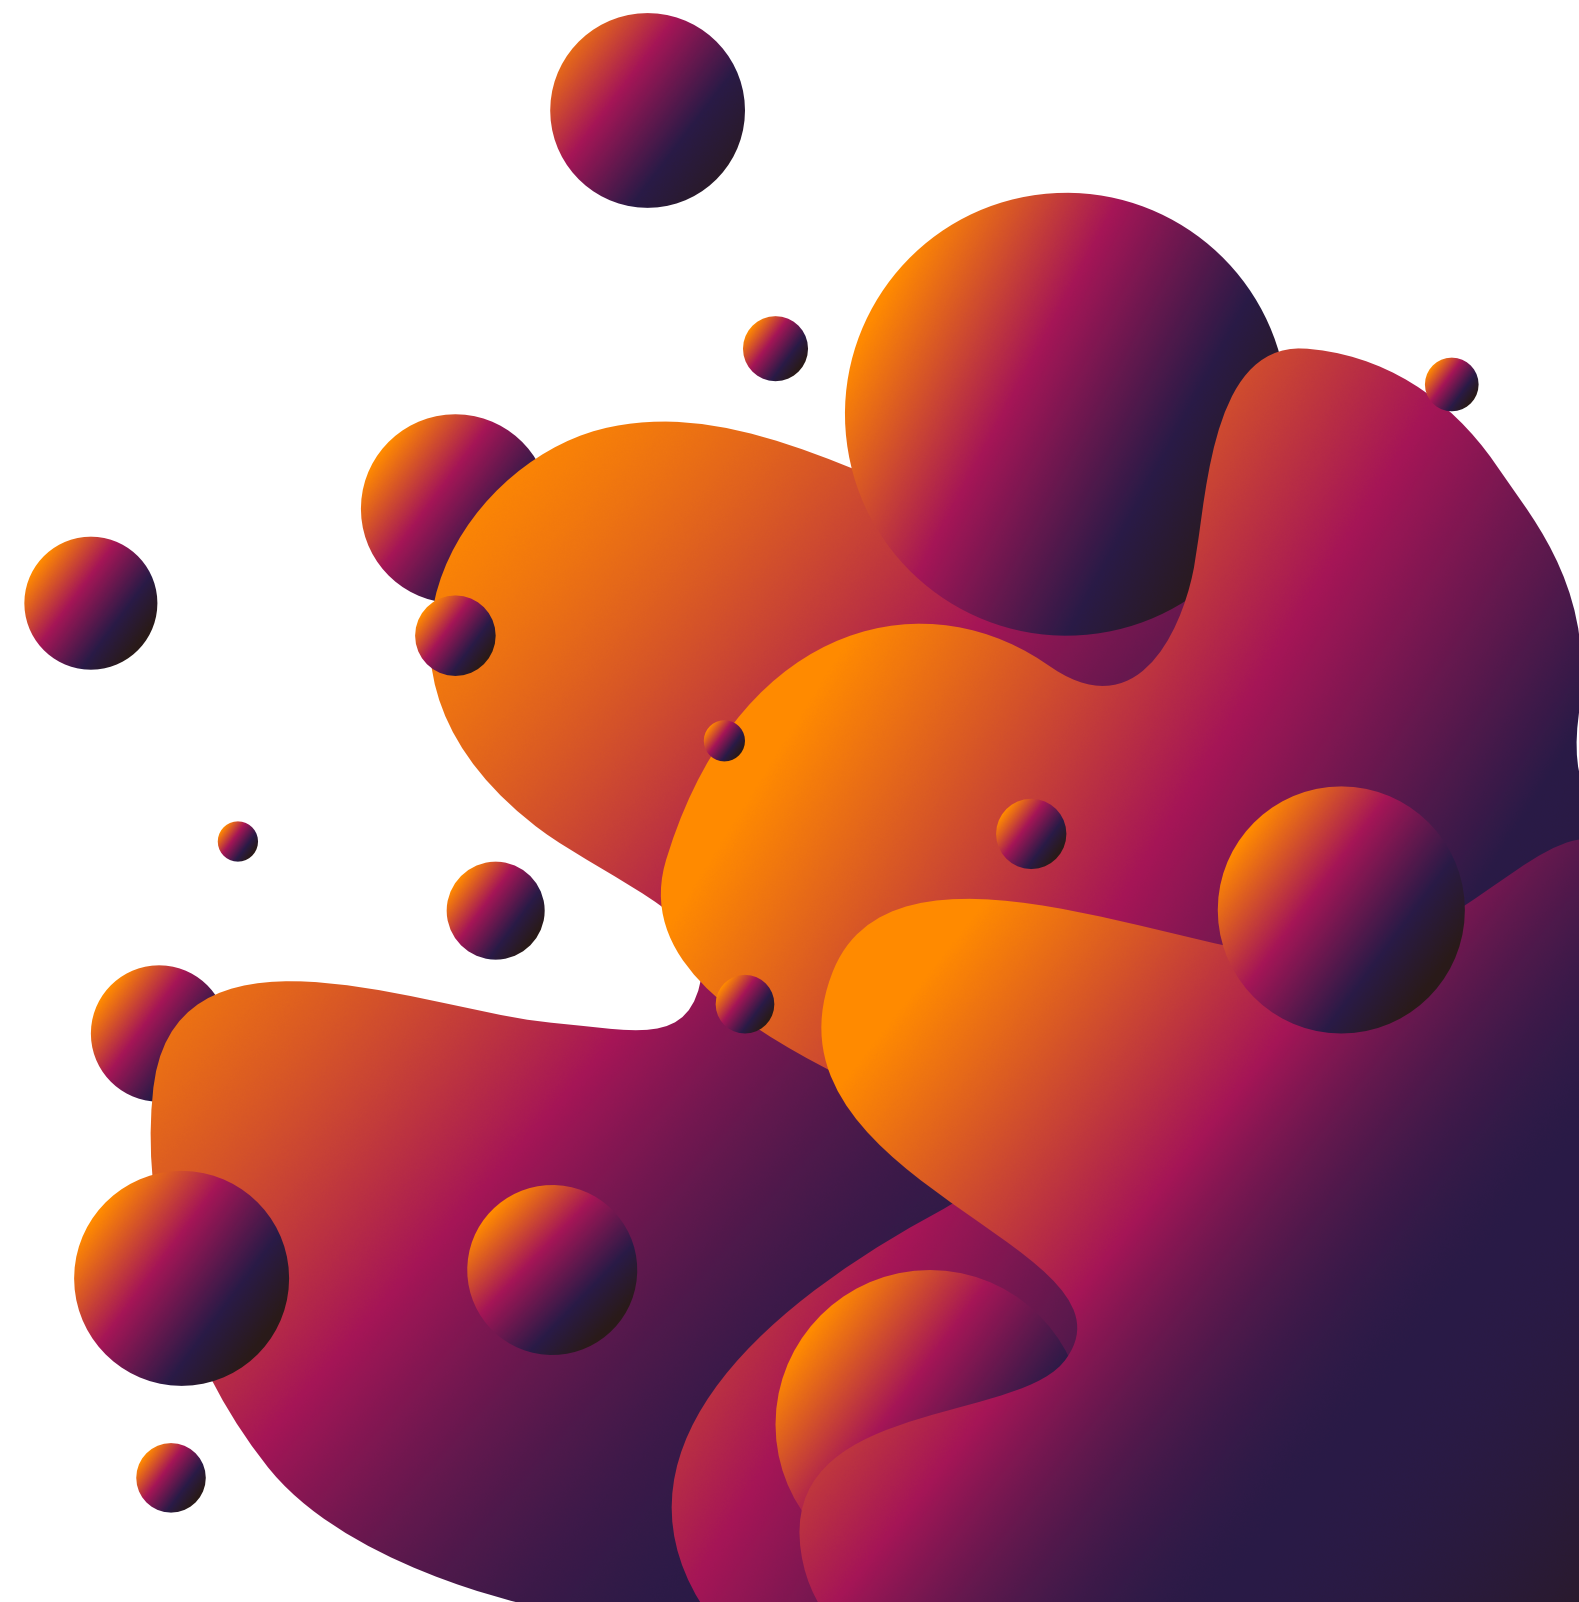
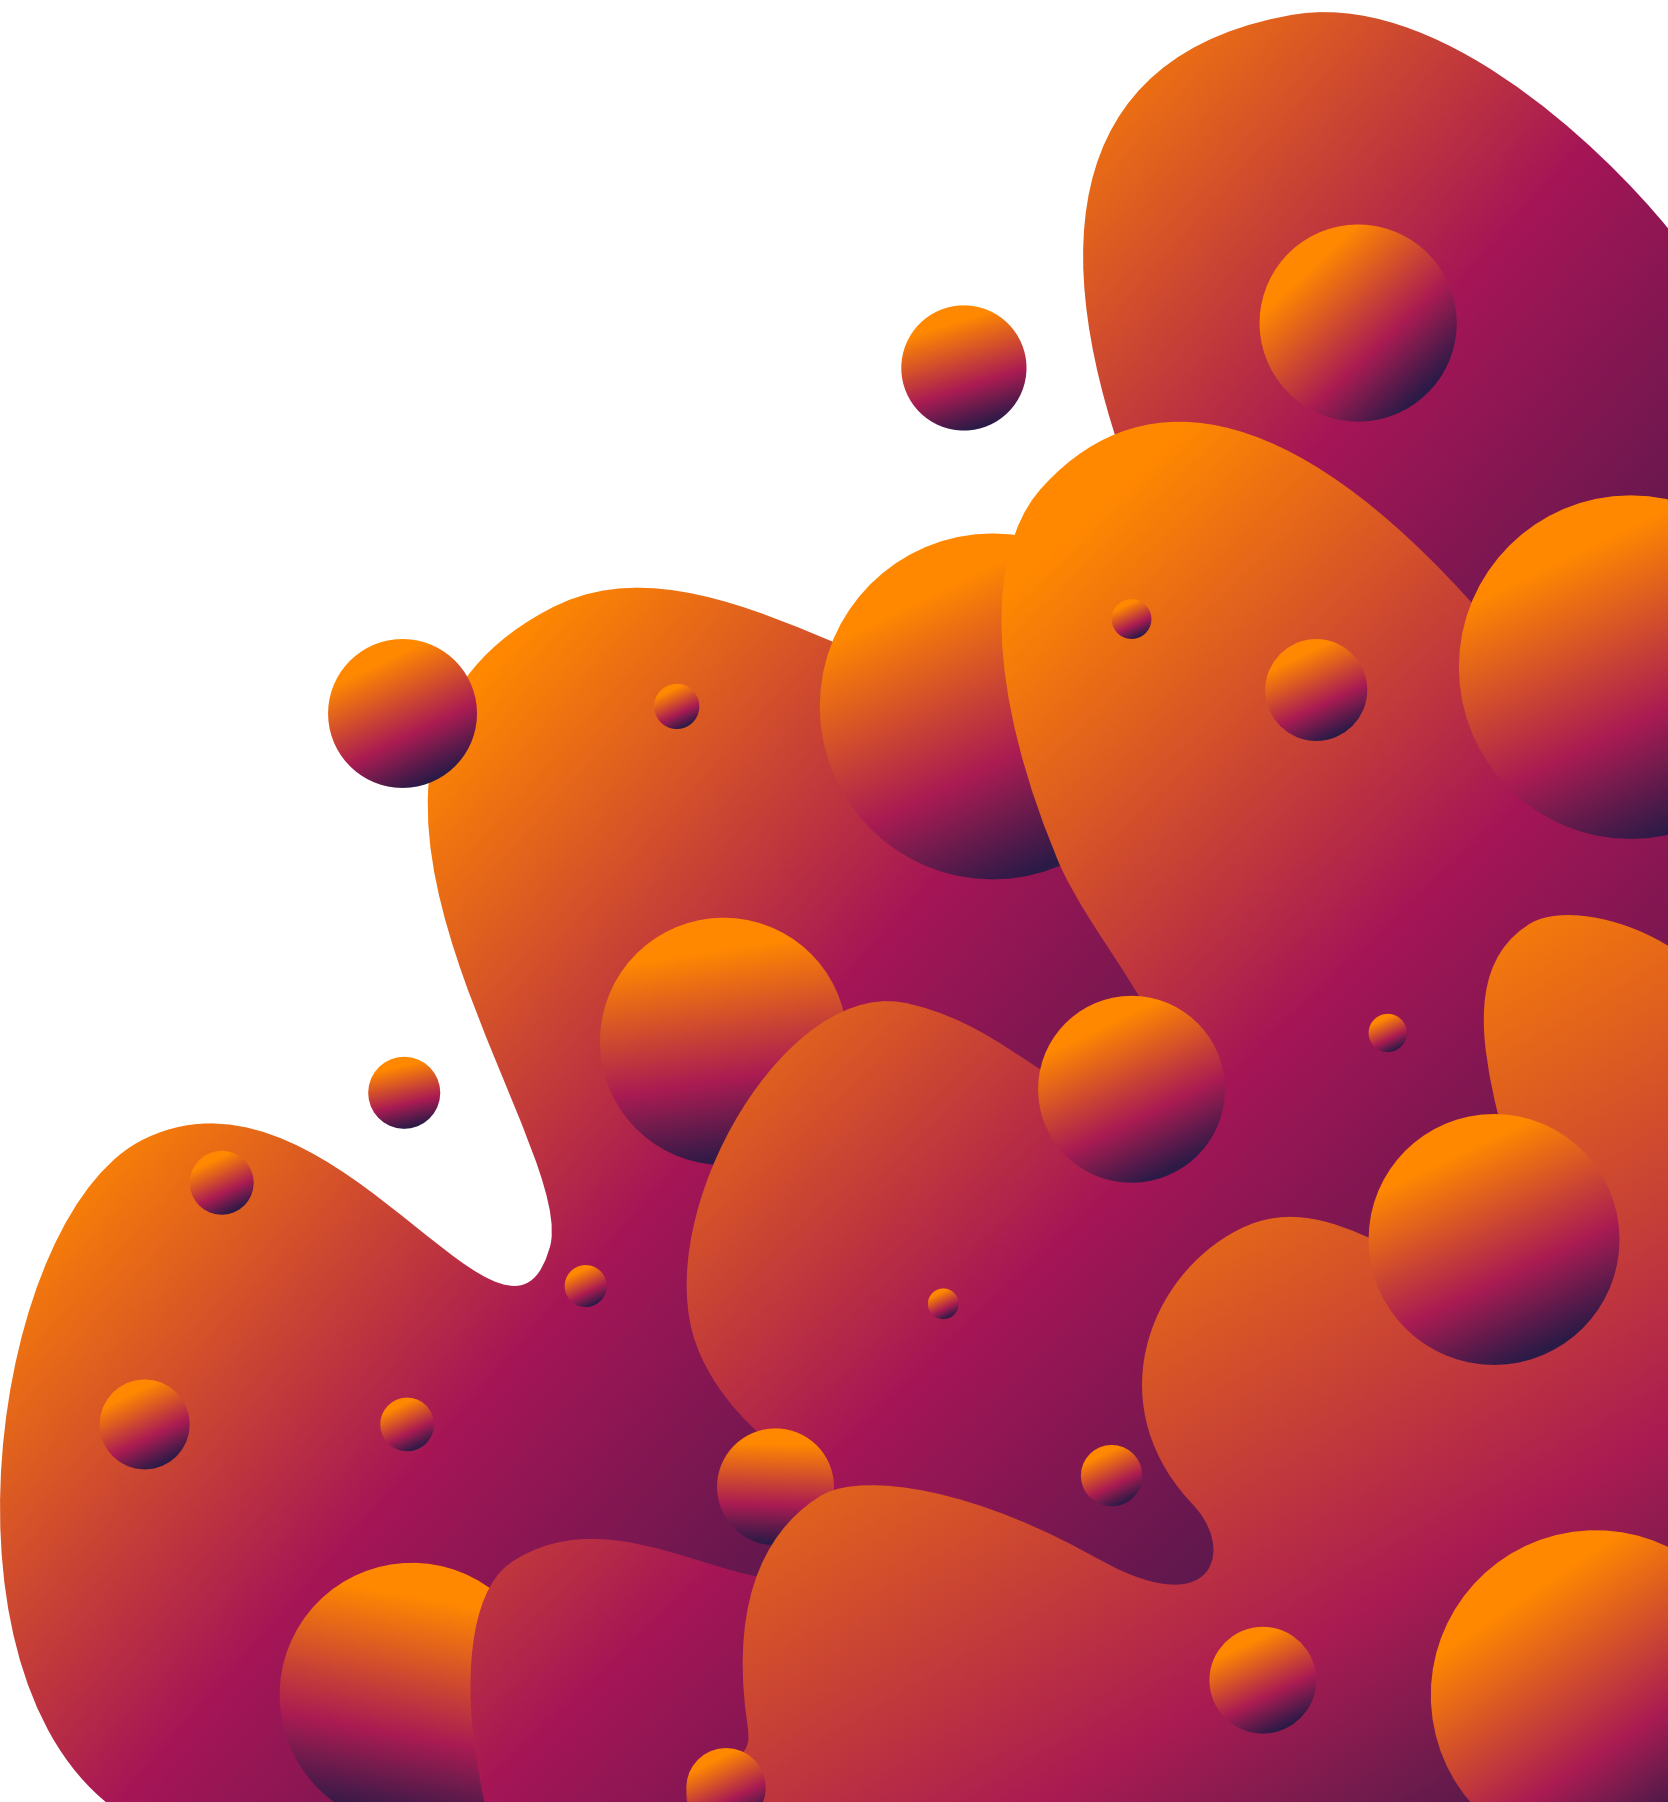
updated lava image and adjusted for smaller screens

diff --git a/styles/style.scss b/styles/style.scss
@@ -49,10 +49,10 @@ p {
 
 .lava {
     position: absolute;
-    left: 158%;
-    margin-left: 120px;
+    left: 157%;
+    margin-left: 173px;
     top: 0;
-    margin-top: -83px;
+    margin-top: -237px;
     height: 80%;
     width: 60%;
 }
@@ -329,6 +329,21 @@ nav {
         top: 25%;
         left: 15%;
     }
+
+    .lava {
+        position: absolute;
+        left: 199%;
+        margin-top: -181px;
+        margin-left: -334px;
+        top: 0;
+    }
+
+    .lava {
+        img {
+            max-height: 750px;
+            max-width: 970px;
+        }
+    }
     .about-section {
         position: absolute;
         top: 15%;
@@ -340,6 +355,13 @@ nav {
         top: 25%;
         left: 15%;
     }
+
+    .my-skills {
+        li {
+            padding: 0 20px 40px 0;
+        }
+    }
+
     .project-section {
         position: absolute;
         top: 25%;
@@ -440,6 +462,11 @@ nav {
         left: 20%;
         width: 80%;
     }
+    .lava {
+            display: none;
+
+    }    
+
     .about-section {
         position: absolute;
         left: 10%;

diff --git a/styles/style.css b/styles/style.css
@@ -48,10 +48,10 @@ p {
 
 .lava {
   position: absolute;
-  left: 158%;
-  margin-left: 120px;
+  left: 157%;
+  margin-left: 173px;
   top: 0;
-  margin-top: -83px;
+  margin-top: -237px;
   height: 80%;
   width: 60%;
 }
@@ -344,6 +344,17 @@ nav {
     top: 25%;
     left: 15%;
   }
+  .lava {
+    position: absolute;
+    left: 199%;
+    margin-top: -181px;
+    margin-left: -334px;
+    top: 0;
+  }
+  .lava img {
+    max-height: 750px;
+    max-width: 970px;
+  }
   .about-section {
     position: absolute;
     top: 15%;
@@ -354,6 +365,9 @@ nav {
     position: absolute;
     top: 25%;
     left: 15%;
+  }
+  .my-skills li {
+    padding: 0 20px 40px 0;
   }
   .project-section {
     position: absolute;
@@ -446,6 +460,9 @@ nav {
     top: 30%;
     left: 20%;
     width: 80%;
+  }
+  .lava {
+    display: none;
   }
   .about-section {
     position: absolute;

diff --git a/index.html b/index.html
@@ -21,7 +21,7 @@
         <p>Frontend Developer / Artist</p>
       </div>
       <div class="lava">
-        <img src="images/lava3.png" alt="colorful lava background image">
+        <img src="images/lava.png" alt="colorful lava background image">
       </div>
     </div>
   </div>
